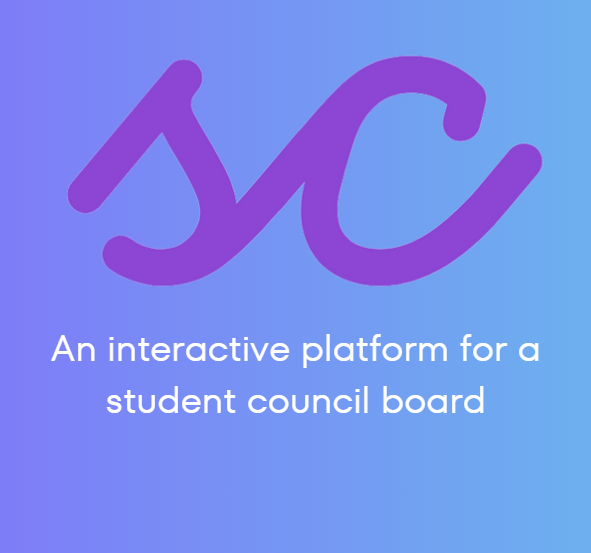
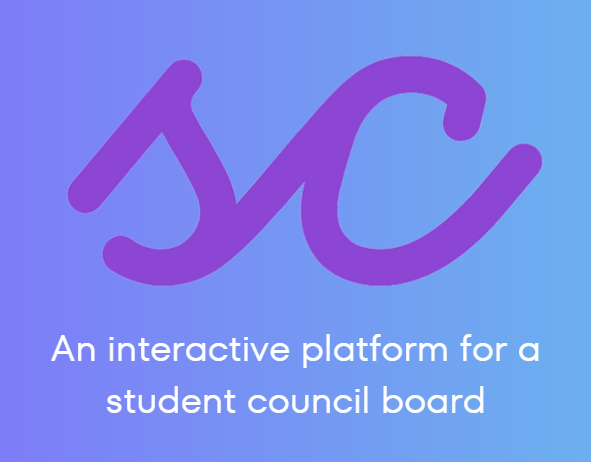
hey

diff --git a/index.html b/index.html
@@ -213,22 +213,62 @@
       <div class="likes__container bd-grid parent">
 
         <div class="skills__name1">
-          <h3 class="skills__subtitle">Internship</h3>
-          <p>Listening to Music</p>
+          <h3 class="skills__name2">JW Marriot Hotel (Intern)</h3>
+          <p> • Gained hands-on experience across various hotel departments, including HumanResources, Marketing, and Culinary.
+       <br>
+            • Developed insights into hotel operations, focusing on guest services, departmental coordination, and food presentation techniques</p>
         </div>
 
         <div class="skills__name1">
-          <p> Building Websites</p>
+          <h3 class="skills__name2"> Student Council</h3>
+          <p>   • Developed a communication platform for the student council to facilitate announcements, event updates, and feedback. <br>
+            • This platform enable real-time interaction between the student body and the council, enhancing responsiveness.</p>
         </div>
 
         <div class="skills__name1">
-          <p>Playing Sports</p>
+          <h3 class="skills__name2">Tuckshop</h3>
+          <p> • Created an online ordering system for the campus shop to streamline the process for boarding students to order items. 
+           <br> • The system facilitated easy access, reduced wait times, and provided features for account management, including balance updates and transaction tracking.</p>
         </div>
 
         <div class="skills__name1">
-          <p>Engage in Socials</p>
+          <h3 class="skills__name2">Boarding Event Planning and Logistics, Coordinator</h3>
+          <p>Organized events like sports matches, themed nights, and cultural celebrations. Managed event logistics, decision-making.</p>
         </div>
+        
+        <div class="skills__name1">
+          <h3 class="skills__name2">Boarding Tuckshop, Stewardship</h3>
+          <p> • <b>Notion</b>, enhancing efficiency and accessibility for financial records.
+            <br> • <b>Website</b>, to streamline orders and improve user experience.</p>
+        </div>
+
+        <div class="skills__name1">
+          <h3 class="skills__name2">Boarding Basketball Team, Tutor</h3>
+          <p><b>Inter-Boarding Basketball Championships.</b> Played a key role in the boarding school basketball teams. I led the boy's team and secured a trophy.</p>
+        </div>
+
+        <div class="skills__name1">
+          <h3 class="skills__name2">Extended Essay</h3>
+          <p>Researched the topic “To what extent has the Prime membership program been a profitable growth strategy for Amazon?” An in-depth analysis on growth strategies in real-world applications.</p>
+        </div>
+  
+        <div class="skills__name1">
+          <h3 class="skills__name2">Business Analysis</h3>
+          <p>Analyzed businesses using tools like PESTLE and STEEPLE, enhancing understanding of business strategies</p>
+        </div>
+  
+        <div class="skills__name1">
+          <h3 class="skills__name2">Workshops</h3>
+          <p>Assisted in Cultural and Traditional workshops. Art workshops. Fundraising stalls.</p>
       </div>
+  
+      <div class="skills__name1">
+        <h3 class="skills__name2">Fundraisers</h3>
+        <p>Digital Recycle Management Club. Bake Sales. School Tournaments.</p>
+      </div>
+      </div>
+
+      
     </section>
 
     <section class="skills section" id="skills">

diff --git a/assets/css/styles.css b/assets/css/styles.css
@@ -782,6 +782,18 @@ img {
   color: var(--skill-name);
 }
 
+.skills__name2 {
+  display: inline-block;
+  font-size: var(--small-font-size);
+  margin-right: var(--mb-2);
+  margin-bottom: var(--mb-3);
+  padding: 0.25rem 0.5rem;
+  /* background-color: var(--white-color); */
+  border-radius: 0.3rem;
+  /* box-shadow: var(--shadow-i); */
+  color: var(--skill-name2);
+}
+
 .skills__name1 {
   display: inline-block;
   font-size: var(--small-font-size1);